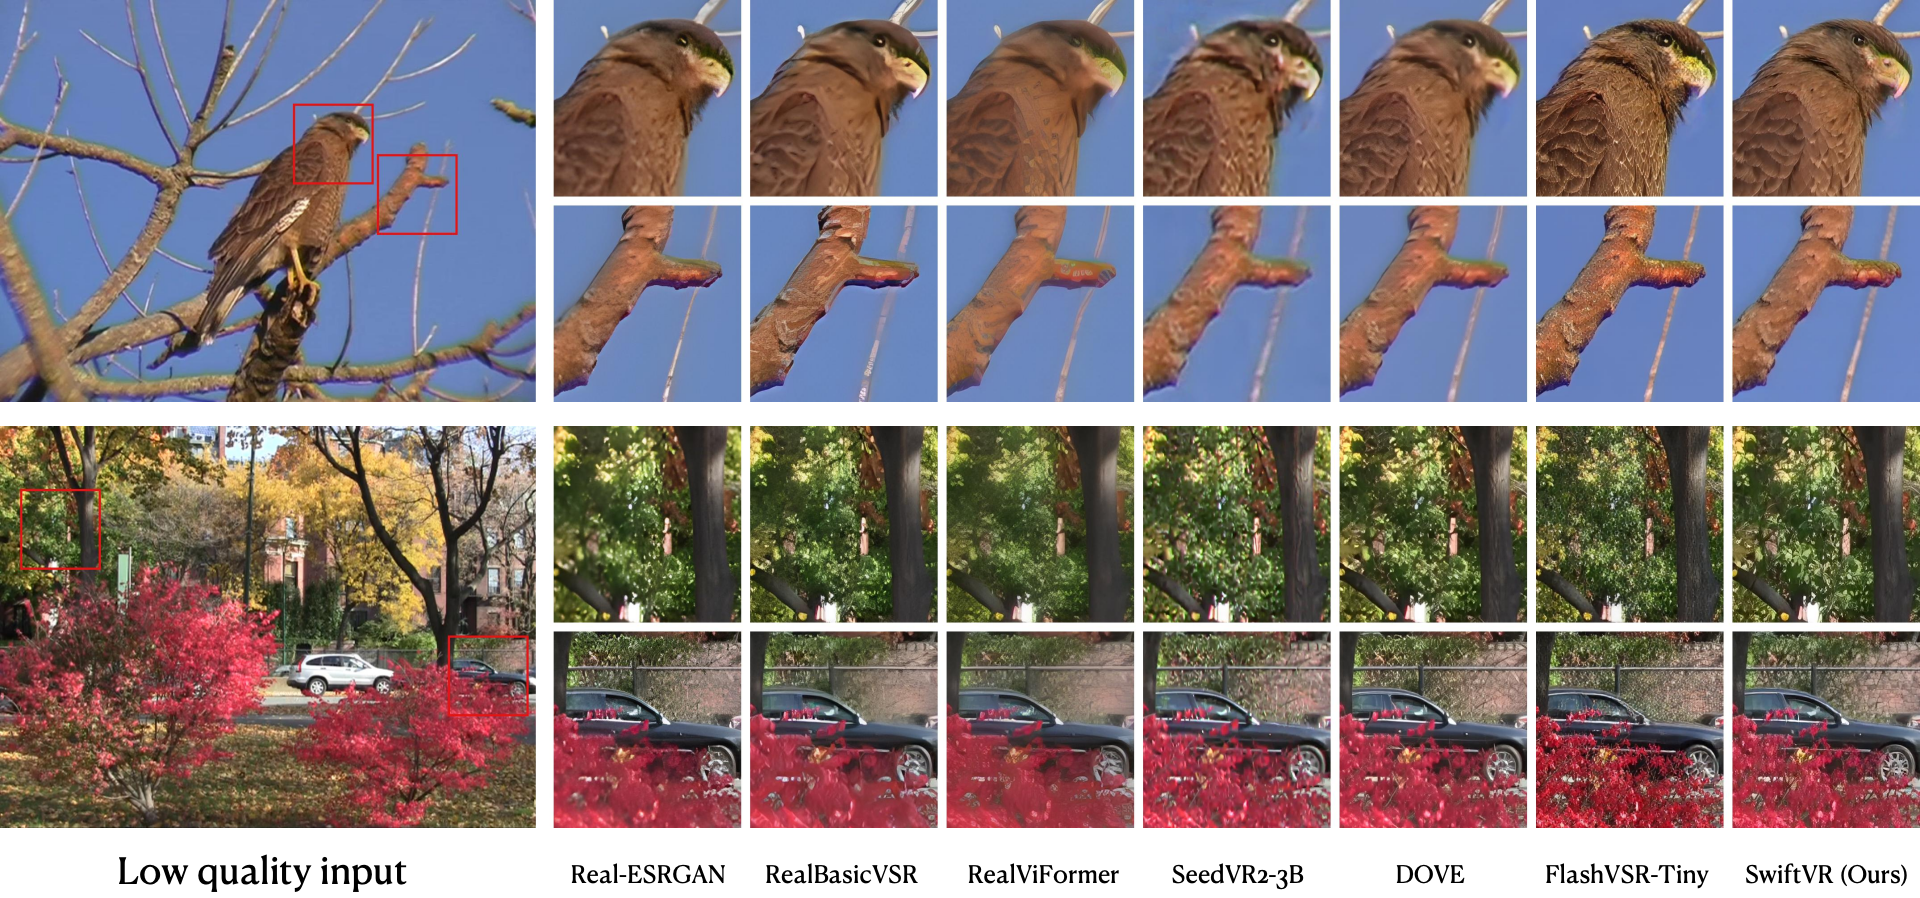
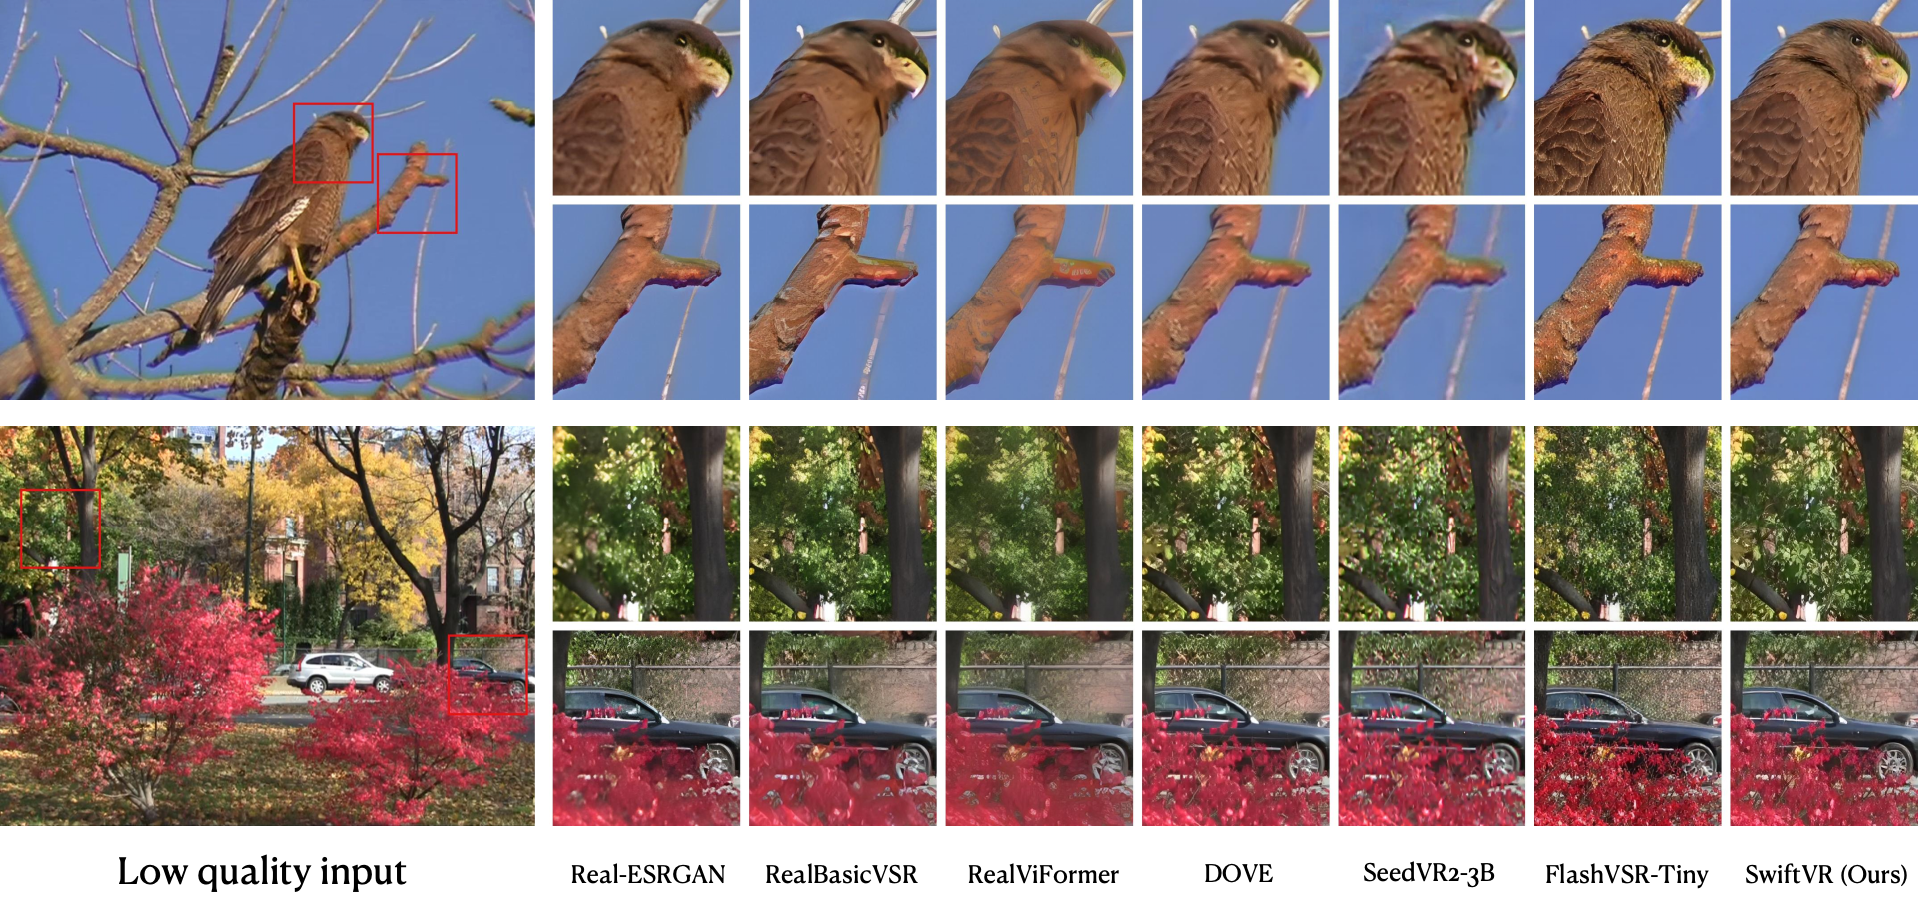
Add files via upload

diff --git a/README.md b/README.md
@@ -1,4 +1,4 @@
-<h1 align="center">SwiftVR: One-step Generative Streaming Real-time Video Restoration</h1>
+<h1 align="center">SwiftVR: Real-Time One-Step Generative Video Restoration</h1>
 
 <p align="center"><img src="assets/teaser.avif" width="100%" alt="SwiftVR teaser"></p>
 
@@ -28,11 +28,11 @@
 
 Single H100, causal streaming, 24 frames.
 
-| Metric           | SeedVR2-3B (tile) | DOVE (tile) | FlashVSR-Tiny | **SwiftVR (Ours)** |
-| ---------------- | :---------------: | :---------: | :-----------: | :------------: |
-| Avg. Time (s) ↓  |       17.320      |    27.615   |     2.493     |    **0.766**   |
-| FPS ↑            |        1.39       |     0.87    |      9.61     |    **31.32**   |
-| Peak Mem. (GB) ↓ |       35.35       |    59.24    |     34.35     |    **38.01**   |
+| Metric | DOVE (tile) | SeedVR2-3B (tile)| FlashVSR-Tiny | **SwiftVR (Ours)** |
+|---|:---:|:---:|:---:|:---:|
+| Avg. Time (s) ↓ | 27.615 | 17.320 | 2.493 | 0.766 |
+| FPS ↑ | 0.85 | 1.39 | 9.61 | 31.32 |
+| Peak Mem. (GB) ↓ | 59.24 | 35.35 | 34.35 | 38.01 |
 
 > At **3840×2160**, every compared diffusion-based VR baseline **OOMs** on a single H100; SwiftVR sustains **14 FPS**.
 
@@ -165,7 +165,7 @@ SwiftVR/
 
 SwiftVR builds on [Wan2.2-TI2V-5B](https://github.com/Wan-Video), the lightweight autoencoder [TAEHV](https://github.com/madebyollin/taehv), and the [RealBasicVSR](https://github.com/ckkelvinchan/RealBasicVSR) degradation pipeline.
 
-We thank the authors of [SeedVR2](https://github.com/ByteDance-Seed/SeedVR), [DOVE](https://github.com/zhengchen1999/DOVE), and [FlashVSR](https://github.com/OpenImagingLab/FlashVSR) for releasing strong baselines, and the [UltraVideo](https://huggingface.co/datasets/APRIL-AIGC/UltraVideo) team for the training corpus.
+We thank the authors of [DOVE](https://github.com/zhengchen1999/DOVE), [SeedVR2](https://github.com/ByteDance-Seed/SeedVR), and [FlashVSR](https://github.com/OpenImagingLab/FlashVSR) for releasing strong baselines, and the [UltraVideo](https://huggingface.co/datasets/APRIL-AIGC/UltraVideo) team for the training corpus.
 
 ## 📜 License
 